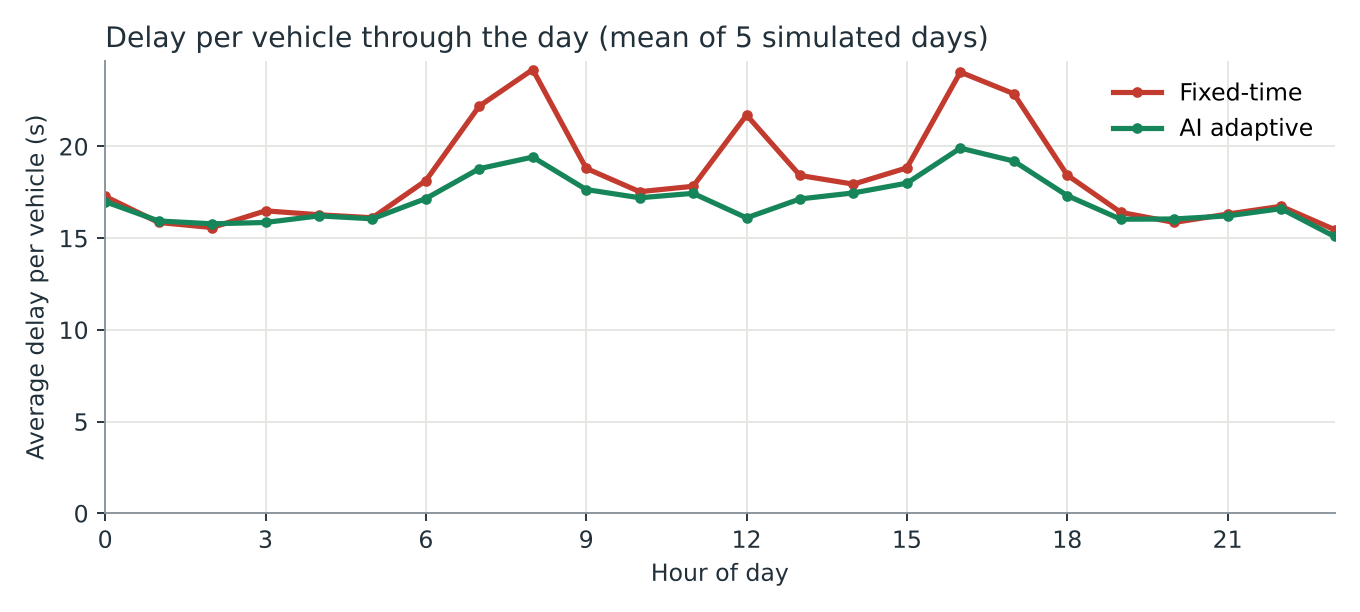
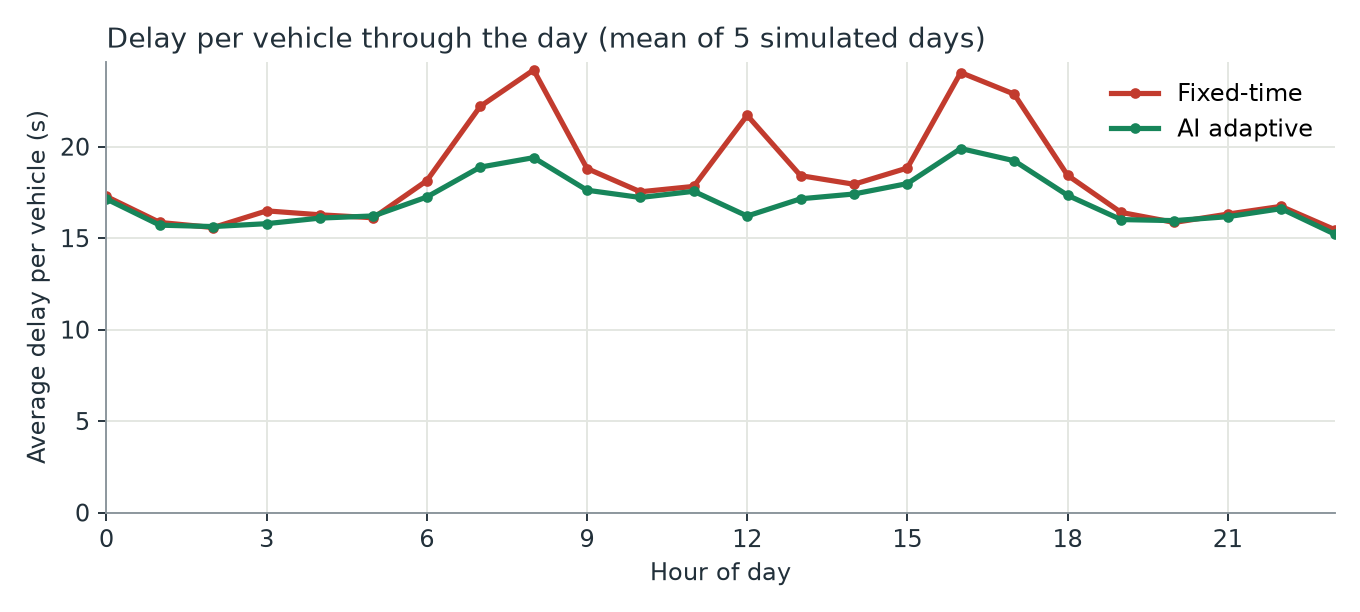
Update traffic management project

diff --git a/intelligent-traffic-management/docs/assets/data.js b/intelligent-traffic-management/docs/assets/data.js
@@ -1,1 +1,1 @@
-window.TRAFFIC = {"model": {"input_scale": 1000.0, "output_scale": 80.0, "weights": [[[-0.291689, 0.069823, -0.185662, 0.221772, 0.457864, 0.155915, 0.100803, 0.0, 0.034628, 0.00717, 0.140191, 0.46187, -0.095387, -0.531553, 0.0, 0.138122], [0.247725, 0.077743, 0.594583, -0.765849, 0.082364, 0.63982, -0.208786, 0.0, 0.582682, -0.457958, -0.427686, 0.251894, 0.025805, -0.200052, -0.0, 0.170832], [-0.307942, -0.447361, -0.108371, 0.172665, 0.420651, -0.092133, 0.090479, 0.0, -0.076783, -0.303007, 0.358081, -0.151332, -0.125963, 0.531616, 0.0, 0.49694], [-0.672937, 0.479668, 0.052632, -0.072634, 0.336028, -0.091981, -0.221657, 0.0, -0.171073, 0.272249, 0.401567, 0.068319, 0.611282, 0.428126, 0.0, -0.474893]], [[-0.080383, 0.094479, 0.0, 8e-06, 0.402886, 0.0, 0.185639, 0.172395, -0.0, 0.342479, 0.372241, 0.0, -0.14526, 0.0, -0.407907, -0.0], [0.13198, -0.081212, -0.0, 0.061575, -0.157528, 0.0, -0.145194, -0.003459, 0.003238, -0.543395, -0.230984, 0.0, -0.397323, 0.054009, 0.3161, -0.0], [-0.097961, 0.174121, 0.104189, 0.362892, -0.358593, 0.0, 0.199293, -0.374421, -0.154194, 0.089958, -0.313622, -0.0, 0.322754, -0.433248, 0.017078, -0.0], [0.640838, -0.137843, -0.0, 0.354683, 0.350589, -0.0, -0.114253, 0.274614, 0.209202, -0.22769, 0.155616, 0.0, 0.01474, -0.178917, -0.371972, 0.0], [0.373582, -0.35873, -0.142131, -0.135776, -0.445846, 0.0, -0.352236, 0.068373, 0.113807, -0.044017, -0.318045, -0.0, 0.08709, 0.47033, 0.403761, -0.0], [-0.639278, 0.368749, 0.080363, -0.129095, 0.177417, -0.0, 0.554973, 0.321272, -8e-06, -0.089895, -0.172253, -0.0, 0.454382, -0.25165, 0.162162, 0.0], [0.006517, 0.060911, -3.2e-05, 0.00746, 0.057964, 0.0, 0.206382, -0.234713, -0.168442, -0.068064, -0.095671, -0.0, 0.371205, 0.245733, -0.369202, -0.0], [0.0, -0.0, -0.0, -0.0, 0.0, 0.0, -0.0, -0.0, -0.0, -0.0, 0.0, 0.0, 0.0, -0.0, -0.0, 0.0], [-0.182613, -0.363728, 0.002634, 0.457511, 0.216985, -0.0, -0.346007, 0.033477, 0.0, -0.020625, 0.38908, 0.0, -0.181061, -0.58318, 0.161204, 0.0], [0.107052, -0.110788, -0.0, -0.03449, -0.167279, -0.0, -0.627996, 0.038651, 0.0, -0.364639, 0.095533, -0.0, -0.345125, -0.394741, 0.051403, 0.0], [0.345002, -0.072449, 0.018618, 0.311568, -0.437744, 0.0, -0.153626, 0.214198, 0.002131, -0.063089, 0.303053, -0.0, 0.019029, 0.001422, -0.426043, -0.0], [0.338519, 0.420164, 0.005075, -0.184658, 0.388237, 0.0, -0.131606, 0.292954, -0.07612, 0.002351, 0.400118, 0.0, 0.375975, 0.22259, -0.128684, -0.0], [-0.311059, 0.530939, -0.0, -0.270631, -0.116833, 0.0, -0.262415, -0.011308, -0.0, 0.508217, -0.090398, 0.0, 0.317789, -0.068446, 0.258454, 0.0], [-0.695974, -0.501103, -3.5e-05, 0.041818, -0.250665, 0.0, 0.201639, -0.551728, -0.000216, -0.752742, -0.402345, 0.0, 0.050458, -0.433646, -0.972561, 0.0], [0.0, 0.0, -0.0, -0.0, 0.0, -0.0, 0.0, -0.0, -0.0, -0.0, -0.0, -0.0, 0.0, 0.0, 0.0, -0.0], [-0.421762, -0.199816, -0.0, -0.111304, -0.229268, -0.0, -0.264642, 0.075462, 0.219043, -0.652692, 0.023564, 0.0, -0.101243, -0.154733, -0.207916, -0.0]], [[0.437309], [0.483286], [0.001532], [-0.459231], [0.522229], [-0.0], [0.450919], [0.055037], [-0.144551], [0.411949], [0.332959], [0.0], [0.553997], [-0.78007], [-0.433235], [0.0]]], "biases": [[0.048067, -0.093388, 0.514375, 0.464218, 0.366282, 0.058582, 0.373298, -0.404098, -0.187295, 0.022292, 0.185171, 0.024718, -0.316931, 0.02699, -0.192331, -0.167343], [-0.4008, 0.231699, -0.314973, -0.14388, 0.371932, -0.011922, 0.158183, 0.189675, -0.370772, 0.322457, 0.341231, -0.298414, 0.043733, -0.188487, 0.190223, -0.40853], [0.05254]], "metrics": {"train_rows": 12000, "test_rows": 3000, "mae_seconds": 2.75, "r2": 0.859, "fixed_plan_mae_seconds": 7.97}}, "profile": [[50, 50, 40, 40], [50, 50, 40, 40], [52, 52, 42, 42], [56, 56, 45, 45], [62, 62, 50, 50], [85, 78, 63, 62], [246, 168, 136, 119], [632, 379, 305, 249], [651, 399, 321, 265], [303, 226, 184, 166], [175, 168, 138, 136], [176, 176, 208, 191], [184, 184, 639, 509], [185, 185, 216, 199], [189, 201, 153, 155], [263, 356, 193, 214], [426, 683, 287, 344], [405, 662, 269, 326], [202, 295, 143, 163], [96, 108, 75, 78], [71, 71, 57, 57], [61, 61, 49, 49], [56, 56, 45, 45], [52, 52, 42, 42]], "results": {"fixed": {"name": "Fixed-time (40 s / 40 s)", "avg_delay_s": 20.2, "avg_delay_sd": 0.3, "peak_delay_s": 23.3, "max_queue": 23.4, "mean_queue": 1.0, "vehicles": 16768}, "ai": {"name": "AI adaptive controller", "avg_delay_s": 17.9, "avg_delay_sd": 0.1, "peak_delay_s": 19.3, "max_queue": 17.0, "mean_queue": 0.9, "vehicles": 16768}, "rule": {"name": "Rule with perfect information", "avg_delay_s": 17.7, "avg_delay_sd": 0.1, "peak_delay_s": 19.2, "max_queue": 16.2, "mean_queue": 0.9, "vehicles": 16768}, "improvement_avg_pct": 11.4, "improvement_peak_pct": 17.2, "seeds": [1, 2, 3, 4, 5], "delay_by_hour": {"fixed": [17.3, 15.9, 15.6, 16.5, 16.3, 16.1, 18.1, 22.2, 24.2, 18.8, 17.5, 17.8, 21.7, 18.4, 17.9, 18.8, 24.1, 22.9, 18.4, 16.4, 15.9, 16.3, 16.7, 15.5], "ai": [17.0, 15.9, 15.8, 15.9, 16.2, 16.1, 17.2, 18.8, 19.4, 17.7, 17.2, 17.4, 16.1, 17.1, 17.5, 18.0, 19.9, 19.2, 17.3, 16.0, 16.0, 16.2, 16.6, 15.1], "rule": [17.2, 15.5, 15.8, 16.0, 15.8, 16.1, 17.0, 18.7, 19.2, 17.5, 17.1, 17.3, 15.8, 17.3, 17.4, 17.9, 19.7, 19.0, 17.3, 15.8, 16.1, 16.0, 16.8, 15.2]}}};
+window.TRAFFIC = {"model": {"input_scale": 1000.0, "output_scale": 80.0, "weights": [[[0.00087, 0.035375, -0.126393, -0.629744, -0.321501, -0.954623, 0.042528, 0.450469, -0.023455, -0.14588, 0.161227, 0.532227, 0.00708, -0.65794, 0.296374, 0.826507], [-0.950503, -0.012715, -1.579299, -0.911841, -1.302303, -0.660142, -0.89622, -0.084645, 0.52256, 0.12252, -1.437623, -0.066194, 0.110567, 0.080122, -0.534893, -0.858339], [-0.691917, -0.763536, 0.56187, -0.571013, -0.022996, 0.648525, -0.412668, 0.459047, -0.250261, -0.403129, -0.565508, -1.133687, 1.025774, -1.093996, 0.625218, -0.216654], [-0.453588, 0.896502, 0.593287, -0.848025, 0.052691, 0.544818, -0.133489, 0.62719, -0.352227, 0.830038, 1.018811, -1.576508, 0.072161, -0.327608, -0.116837, -0.307173]], [[-0.204814, -0.069366, 0.317761, 0.404897, -0.467938, -0.280949, 0.228715, -0.704427, -0.163755, -0.034396, 0.444422, 0.243741, -0.115687, -0.130311, -0.088457, 0.538649], [-0.037366, -0.01768, -0.055028, -0.883094, 0.015195, -0.451816, -0.171465, -0.504252, 0.352545, 0.132285, 0.333507, 0.311773, -0.325754, 0.164251, -0.237488, 0.471222], [0.22604, 0.82354, -0.190376, -0.340009, -0.190276, -0.244608, 0.463578, 0.867923, -0.055894, -0.190522, 0.337032, 0.288898, -0.163977, -0.35751, 0.4231, -0.163314], [-0.36546, -0.027995, 0.012476, -0.372817, 0.091867, -0.303333, 0.343677, 0.068146, 0.031575, -0.20896, -0.041935, -0.70631, -0.400013, 0.128283, -0.752562, 0.299321], [-0.617338, 0.267547, -0.298928, 0.275415, 0.046298, -0.543353, 0.441641, 0.50972, -0.023266, -0.096844, -0.056522, -0.344768, 0.388409, -0.191941, -0.018099, -0.280473], [-0.809777, -0.784158, 0.681624, -0.21665, -0.168521, 0.191248, -1.088736, 0.069252, -0.23107, -0.134768, -0.971585, -0.067154, -0.497499, -0.467164, 0.859185, 0.112866], [-0.372678, 0.119263, 0.497546, -0.514075, -0.073724, -0.223464, -0.622614, 0.259836, -0.008289, 0.025259, -0.265982, 0.16079, -0.19067, -0.050524, -0.391829, -0.429957], [0.443651, 0.15078, 0.152886, -0.359455, -0.705367, -0.192483, 0.443439, 0.123651, -0.029397, 0.330122, 0.17437, 0.254345, -0.034287, -0.007053, -1.254566, 0.288964], [0.746855, -0.098775, 0.472365, 0.419721, -0.147613, 0.715422, -0.273303, 0.243985, -0.108448, 0.395174, 0.673143, 0.222952, 0.153975, 0.712354, -0.649669, -0.058559], [0.015247, -0.448284, 0.133327, 0.951243, -0.346869, -0.623267, 0.18657, -0.458816, -0.086594, -0.045811, 0.005261, -1.206753, -0.26148, -0.586686, -0.297503, 0.205198], [-0.079225, 0.08563, -0.486087, -0.088429, -0.807341, 0.330132, 0.216677, -0.024866, -0.49715, 0.031302, 0.661871, -0.257621, 0.208661, -0.136051, 0.404216, -0.967399], [0.409198, 0.640154, 0.678712, 1.393457, -1.978331, 0.871318, -0.014706, 1.391981, 0.207811, -0.294511, -0.58739, -0.577852, 0.325089, 0.437916, 0.294689, 0.391969], [0.432551, -0.293405, -0.096116, 0.294183, -0.125903, 0.301997, 0.185404, 0.200509, -0.555873, 0.237427, -0.304407, 0.307985, -0.658821, -0.296193, -0.178115, -0.900599], [0.608809, 0.516332, -0.163902, 0.272845, 0.133882, -0.924033, 0.088529, -0.021688, 0.029422, -0.380733, -0.095229, -0.063024, 0.420055, 0.118238, -0.001964, 0.540573], [-0.379365, 0.048916, -0.810853, 0.494484, 0.744782, 0.34497, 0.1484, 0.210797, -0.090769, -0.058775, 0.034112, 0.302376, 0.314196, -0.191083, -0.211382, -0.168857], [0.873645, 0.630111, 0.045958, -0.196849, -0.027892, -0.201356, -0.367658, -0.553692, 0.374626, 0.079317, -0.258134, 0.146126, -0.697376, 0.297356, -0.541047, 0.167822]], [[-0.237564], [0.249417], [0.214849], [-0.214541], [-0.158852], [0.261195], [0.173049], [-0.164056], [0.287468], [0.419935], [-0.115186], [-0.091508], [-0.162766], [0.252535], [-0.300403], [-0.198935]]], "biases": [[0.0, 0.221762, 0.227023, 0.0, 0.0, 0.228299, 0.0, -0.245902, 0.142215, -0.023452, 0.28123, 0.10416, -0.145592, 0.0, 0.189406, 0.109], [-0.323249, 0.167042, 0.112069, -0.083539, 0.047482, 0.378828, 0.008961, -0.068557, 0.393113, 0.107717, -0.236311, -0.062, -0.257152, 0.326522, -0.10222, -0.123579], [0.159503]], "metrics": {"train_rows": 12000, "test_rows": 3000, "mae_seconds": 2.71, "r2": 0.863, "fixed_plan_mae_seconds": 7.98}}, "profile": [[50, 50, 40, 40], [50, 50, 40, 40], [52, 52, 42, 42], [56, 56, 45, 45], [62, 62, 50, 50], [85, 78, 63, 62], [246, 168, 136, 119], [632, 379, 305, 249], [651, 399, 321, 265], [303, 226, 184, 166], [175, 168, 138, 136], [176, 176, 208, 191], [184, 184, 639, 509], [185, 185, 216, 199], [189, 201, 153, 155], [263, 356, 193, 214], [426, 683, 287, 344], [405, 662, 269, 326], [202, 295, 143, 163], [96, 108, 75, 78], [71, 71, 57, 57], [61, 61, 49, 49], [56, 56, 45, 45], [52, 52, 42, 42]], "results": {"fixed": {"name": "Fixed-time (40 s / 40 s)", "avg_delay_s": 20.2, "avg_delay_sd": 0.3, "peak_delay_s": 23.3, "max_queue": 23.4, "mean_queue": 1.0, "vehicles": 16768}, "ai": {"name": "AI adaptive controller", "avg_delay_s": 17.9, "avg_delay_sd": 0.1, "peak_delay_s": 19.4, "max_queue": 16.8, "mean_queue": 0.9, "vehicles": 16768}, "rule": {"name": "Rule with perfect information", "avg_delay_s": 17.7, "avg_delay_sd": 0.1, "peak_delay_s": 19.2, "max_queue": 16.2, "mean_queue": 0.9, "vehicles": 16768}, "improvement_avg_pct": 11.4, "improvement_peak_pct": 16.7, "seeds": [1, 2, 3, 4, 5], "delay_by_hour": {"fixed": [17.3, 15.9, 15.6, 16.5, 16.3, 16.1, 18.1, 22.2, 24.2, 18.8, 17.5, 17.8, 21.7, 18.4, 17.9, 18.8, 24.1, 22.9, 18.4, 16.4, 15.9, 16.3, 16.7, 15.5], "ai": [17.1, 15.7, 15.6, 15.8, 16.1, 16.2, 17.2, 18.9, 19.4, 17.6, 17.2, 17.6, 16.2, 17.2, 17.4, 18.0, 19.9, 19.2, 17.3, 16.0, 16.0, 16.2, 16.6, 15.2], "rule": [17.2, 15.5, 15.8, 16.0, 15.8, 16.1, 17.0, 18.7, 19.2, 17.5, 17.1, 17.3, 15.8, 17.3, 17.4, 17.9, 19.7, 19.0, 17.3, 15.8, 16.1, 16.0, 16.8, 15.2]}}};

diff --git a/intelligent-traffic-management/src/train_model.py b/intelligent-traffic-management/src/train_model.py
@@ -1,40 +1,76 @@
-"""Train the green-time model and export it as JSON (used by Python and the website)."""
+"""Train the green-time model (pure NumPy, no scikit-learn/SciPy) and export it as JSON."""
 import json
 import numpy as np
 import pandas as pd
 from pathlib import Path
-from sklearn.model_selection import train_test_split
-from sklearn.neural_network import MLPRegressor
-from sklearn.metrics import mean_absolute_error, r2_score
 
 from .common import APPROACHES, GREEN_TOTAL, FIXED_NS, MIN_GREEN
 
 ROOT = Path(__file__).resolve().parent.parent
 IN_SCALE, OUT_SCALE = 1000.0, float(GREEN_TOTAL)
+LAYERS = [4, 16, 16, 1]
+EPOCHS, BATCH, LR = 250, 128, 0.003
+
+
+def forward(params, X):
+    acts = [X]
+    for i, (W, b) in enumerate(params):
+        z = acts[-1] @ W + b
+        acts.append(np.maximum(z, 0.0) if i < len(params) - 1 else z)
+    return acts
+
+
+def train(X, y, seed=7):
+    rng = np.random.default_rng(seed)
+    params = [(rng.normal(0, np.sqrt(2.0 / a), (a, b)), np.zeros(b)) for a, b in zip(LAYERS[:-1], LAYERS[1:])]
+    m = [(np.zeros_like(W), np.zeros_like(b)) for W, b in params]
+    v = [(np.zeros_like(W), np.zeros_like(b)) for W, b in params]
+    step = 0
+    for _ in range(EPOCHS):
+        order = rng.permutation(len(X))
+        for s in range(0, len(X), BATCH):
+            idx = order[s:s + BATCH]
+            xb, yb = X[idx], y[idx].reshape(-1, 1)
+            acts = forward(params, xb)
+            delta = 2 * (acts[-1] - yb) / len(xb)          # d(MSE)/d(output)
+            step += 1
+            for i in range(len(params) - 1, -1, -1):
+                W, b = params[i]
+                gW, gb = acts[i].T @ delta, delta.sum(0)
+                if i > 0:
+                    delta = (delta @ W.T) * (acts[i] > 0)
+                for k, g in ((0, gW), (1, gb)):               # Adam update
+                    m[i] = tuple(0.9 * m[i][j] + 0.1 * g if j == k else m[i][j] for j in (0, 1))
+                    v[i] = tuple(0.999 * v[i][j] + 0.001 * g * g if j == k else v[i][j] for j in (0, 1))
+                    mh = m[i][k] / (1 - 0.9 ** step)
+                    vh = v[i][k] / (1 - 0.999 ** step)
+                    p = params[i][k] - LR * mh / (np.sqrt(vh) + 1e-8)
+                    params[i] = (p, params[i][1]) if k == 0 else (params[i][0], p)
+    return params
 
 
 def main():
     df = pd.read_csv(ROOT / "data" / "traffic_training_data.csv")
     X = df[[f"sensor_{a.lower()}_vph" for a in APPROACHES]].values / IN_SCALE
     y = df["ideal_ns_green_s"].values / OUT_SCALE
-    X_tr, X_te, y_tr, y_te = train_test_split(X, y, test_size=0.2, random_state=1)
+    perm = np.random.default_rng(1).permutation(len(X))
+    cut = int(len(X) * 0.8)
+    tr, te = perm[:cut], perm[cut:]
 
-    net = MLPRegressor(hidden_layer_sizes=(16, 16), activation="relu", max_iter=800,
-                       early_stopping=True, random_state=7)
-    net.fit(X_tr, y_tr)
-
-    pred = np.clip(net.predict(X_te) * OUT_SCALE, MIN_GREEN, GREEN_TOTAL - MIN_GREEN)
-    truth = y_te * OUT_SCALE
+    params = train(X[tr], y[tr])
+    pred = np.clip(forward(params, X[te])[-1].ravel() * OUT_SCALE, MIN_GREEN, GREEN_TOTAL - MIN_GREEN)
+    truth = y[te] * OUT_SCALE
+    ss_res, ss_tot = ((truth - pred) ** 2).sum(), ((truth - truth.mean()) ** 2).sum()
     metrics = {
-        "train_rows": int(len(X_tr)), "test_rows": int(len(X_te)),
-        "mae_seconds": round(float(mean_absolute_error(truth, pred)), 2),
-        "r2": round(float(r2_score(truth, pred)), 3),
-        "fixed_plan_mae_seconds": round(float(mean_absolute_error(truth, np.full_like(truth, FIXED_NS))), 2),
+        "train_rows": int(len(tr)), "test_rows": int(len(te)),
+        "mae_seconds": round(float(np.abs(truth - pred).mean()), 2),
+        "r2": round(float(1 - ss_res / ss_tot), 3),
+        "fixed_plan_mae_seconds": round(float(np.abs(truth - FIXED_NS).mean()), 2),
     }
     spec = {
         "input_scale": IN_SCALE, "output_scale": OUT_SCALE,
-        "weights": [w.round(6).tolist() for w in net.coefs_],
-        "biases": [b.round(6).tolist() for b in net.intercepts_],
+        "weights": [W.round(6).tolist() for W, _ in params],
+        "biases": [b.round(6).tolist() for _, b in params],
         "metrics": metrics,
     }
     (ROOT / "models").mkdir(exist_ok=True)
